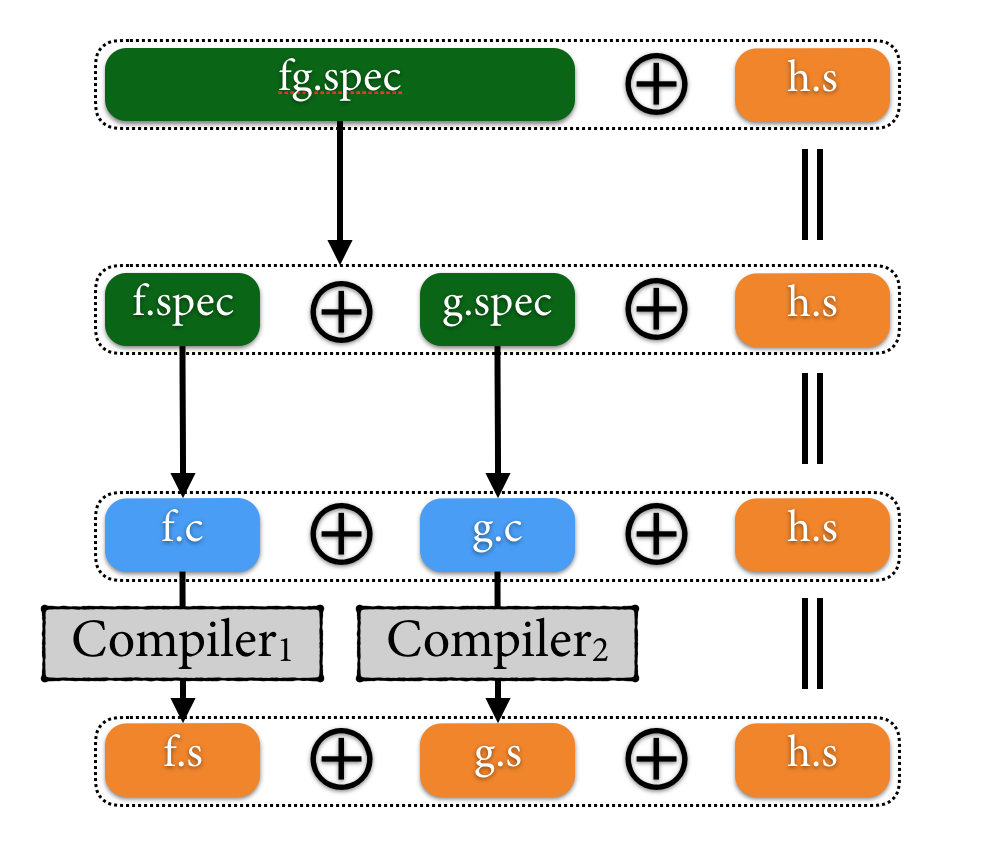
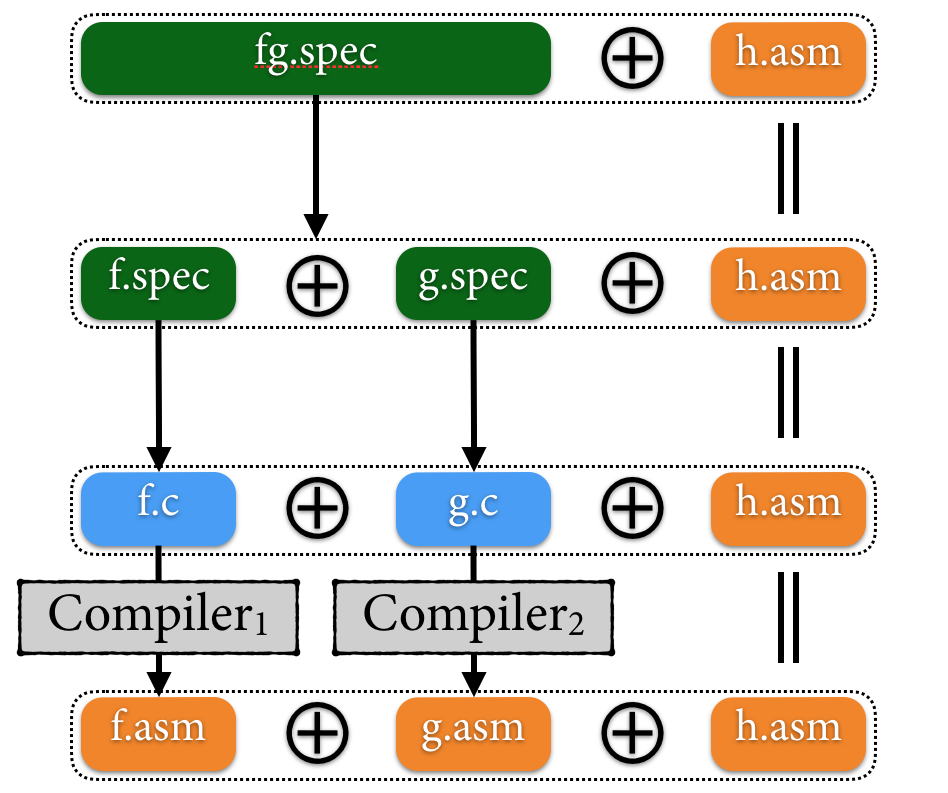
Tweaking

Changed region(s): [[0.0, 0.0, 0.9177, 0.9987]]

diff --git a/rusc-solution.tex b/rusc-solution.tex
@@ -169,25 +169,23 @@ we also parameterize open simulations with memory predicates---representing the
 analysis results of such analyzers---and
 prove their horizontal compositionality and adequacy (See \Cref{sec:main-verification} for details).
 
-\myparagraph{Applications} In our paper, we use RUSC
+\myparagraph{Applications} We use RUSC
 % with open simulations
 in two situations: compiler and program verification.
 %% \jeehoon{On paragraph name: how about ``Applications''?  It sounds more general.}
 
-First, we give an abstract example for compiler
+First, we give an abstract example (presented in \Cref{fig:rusc-verif-scenario}) for compiler
 verification.  Suppose our source program is written in three modules,
 \texttt{a.c}, \texttt{b.c} and \texttt{c.asm}, and compiled via
 multiple passes: $\texttt{a.c}\to\texttt{a.il1}\to\texttt{a.asm}$ and
 $\texttt{b.c}\to\texttt{b.il2}\to\texttt{b.il3}\to\texttt{b.asm}$,
-each of which is verified using a different relation as follows:
-\[
-\begin{array}{l}
-  (\texttt{a.c},\texttt{a.il1}) \in R_1 \quad (\texttt{a.il1},\texttt{a.asm}) \in R_2 \\
-  (\texttt{b.c},\texttt{b.il2}) \in R_3 \quad
-  (\texttt{b.il2},\texttt{b.il3}) \in R_4 \quad
-  (\texttt{b.il3},\texttt{b.asm}) \in R_5
-\end{array}
-\]
+each of which is verified using a different relation $R_1$ to $R_5$.
+\begin{figure}[t]
+  \centering
+  \includegraphics[width=0.90\linewidth]{images/fig-rusc.png}
+  \caption{A compiler verification scenario with RUSC}
+  \label{fig:rusc-verif-scenario}
+\end{figure}
 %
 Then as long as the \emph{end modules}, \texttt{a.c}, \texttt{b.c}, \texttt{a.asm},
 \texttt{b.asm}, \texttt{c.asm}, are self-related by the relations $R_1,\ldots,R_5$,
@@ -269,6 +267,20 @@ strong preventing any reasoning about private memory such as
 functions' stack frames. On the other hand, RUSC w.r.t. a set of
 sensible relations will rule out such bad contexts and give us a sensible (better) relation.
 %% even in the presence of such ill-behaved contexts.
+
+
+\myparagraph{Comparison to \scc{}}
+If we ``unfold'' the notion of RUSC, what is happening under the hood is this: \Cref{fig:rusc-inline}.
+The key insight here is that {\it dummy passes} -- which does not modify anything -- are inserted so that between each row, {\it only one} module is actually translated.
+
+//비교: rusc notation 의 유용함, multi-language setting, open sim, ...
+
+\begin{figure}[t]
+  \centering
+  \includegraphics[width=0.90\linewidth]{images/fig-rusc-inline.png}
+  \caption{An expanded version of the verification scenario described \Cref{fig:rusc-verif-scenario}}
+  \label{fig:rusc-inline}
+\end{figure}
 
 
 %% \myparagraph{Compositional Compiler Correctness}

diff --git a/overview.tex b/overview.tex
@@ -359,8 +359,8 @@ For example, suppose you wrote a source program that uses sort function from an 
 Then, your module is correct (behaves according to a mathematical specification) only when the sort function behaves as expected.
 In other words, in program verification, it is important to support {\it cooperation} between different modules naturally.
 %
-Third, compilers are {\it general}, which means that they are designed to serve arbitrary C code so their translations are relatively simpler.
-However, in program verification, we write specifications for each C module so each abstraction is {\it special} which often require deeper understanding about its algorithmic nature.
+Third, compilers are general, which means that they are designed to serve arbitrary C code so their translations are relatively simpler.
+However, in program verification, we write specifications for each C module so each abstraction is special which often require deeper understanding about its algorithmic nature.
 %% For an instance, a compiler will never change quick sort to bubble sort, but in program verification one may.
 
 
@@ -373,7 +373,7 @@ However, in program verification, we write specifications for each C module so e
 
 
 
-Now we explain how we can apply RUSC to program verification with an example (\Cref{fig:program-verif}) where two mutually recursive modules f and g are verified against its specifications even in the presence of an unknown assembly module h.
+Now we explain how we can apply RUSC to program verification with an example (\Cref{fig:program-verif}) where two mutually recursive modules $\texttt{f.c}$ and $\texttt{g.c}$ are verified against its specifications even in the presence of an unknown assembly module $\texttt{h.asm}$.
 
 First, we write a specification as a {\it module}, not in C but in abstract mathematical state transition system. %%simpler, abstract
 For an instance, if we have a C module computing Fibonacci number employing dynamic programming technique, its specification module directly returns $\mathrm{Fib}(\code{n})$ for an argument \code{n} where $\mathrm{Fib}$ is a Gallina function.
